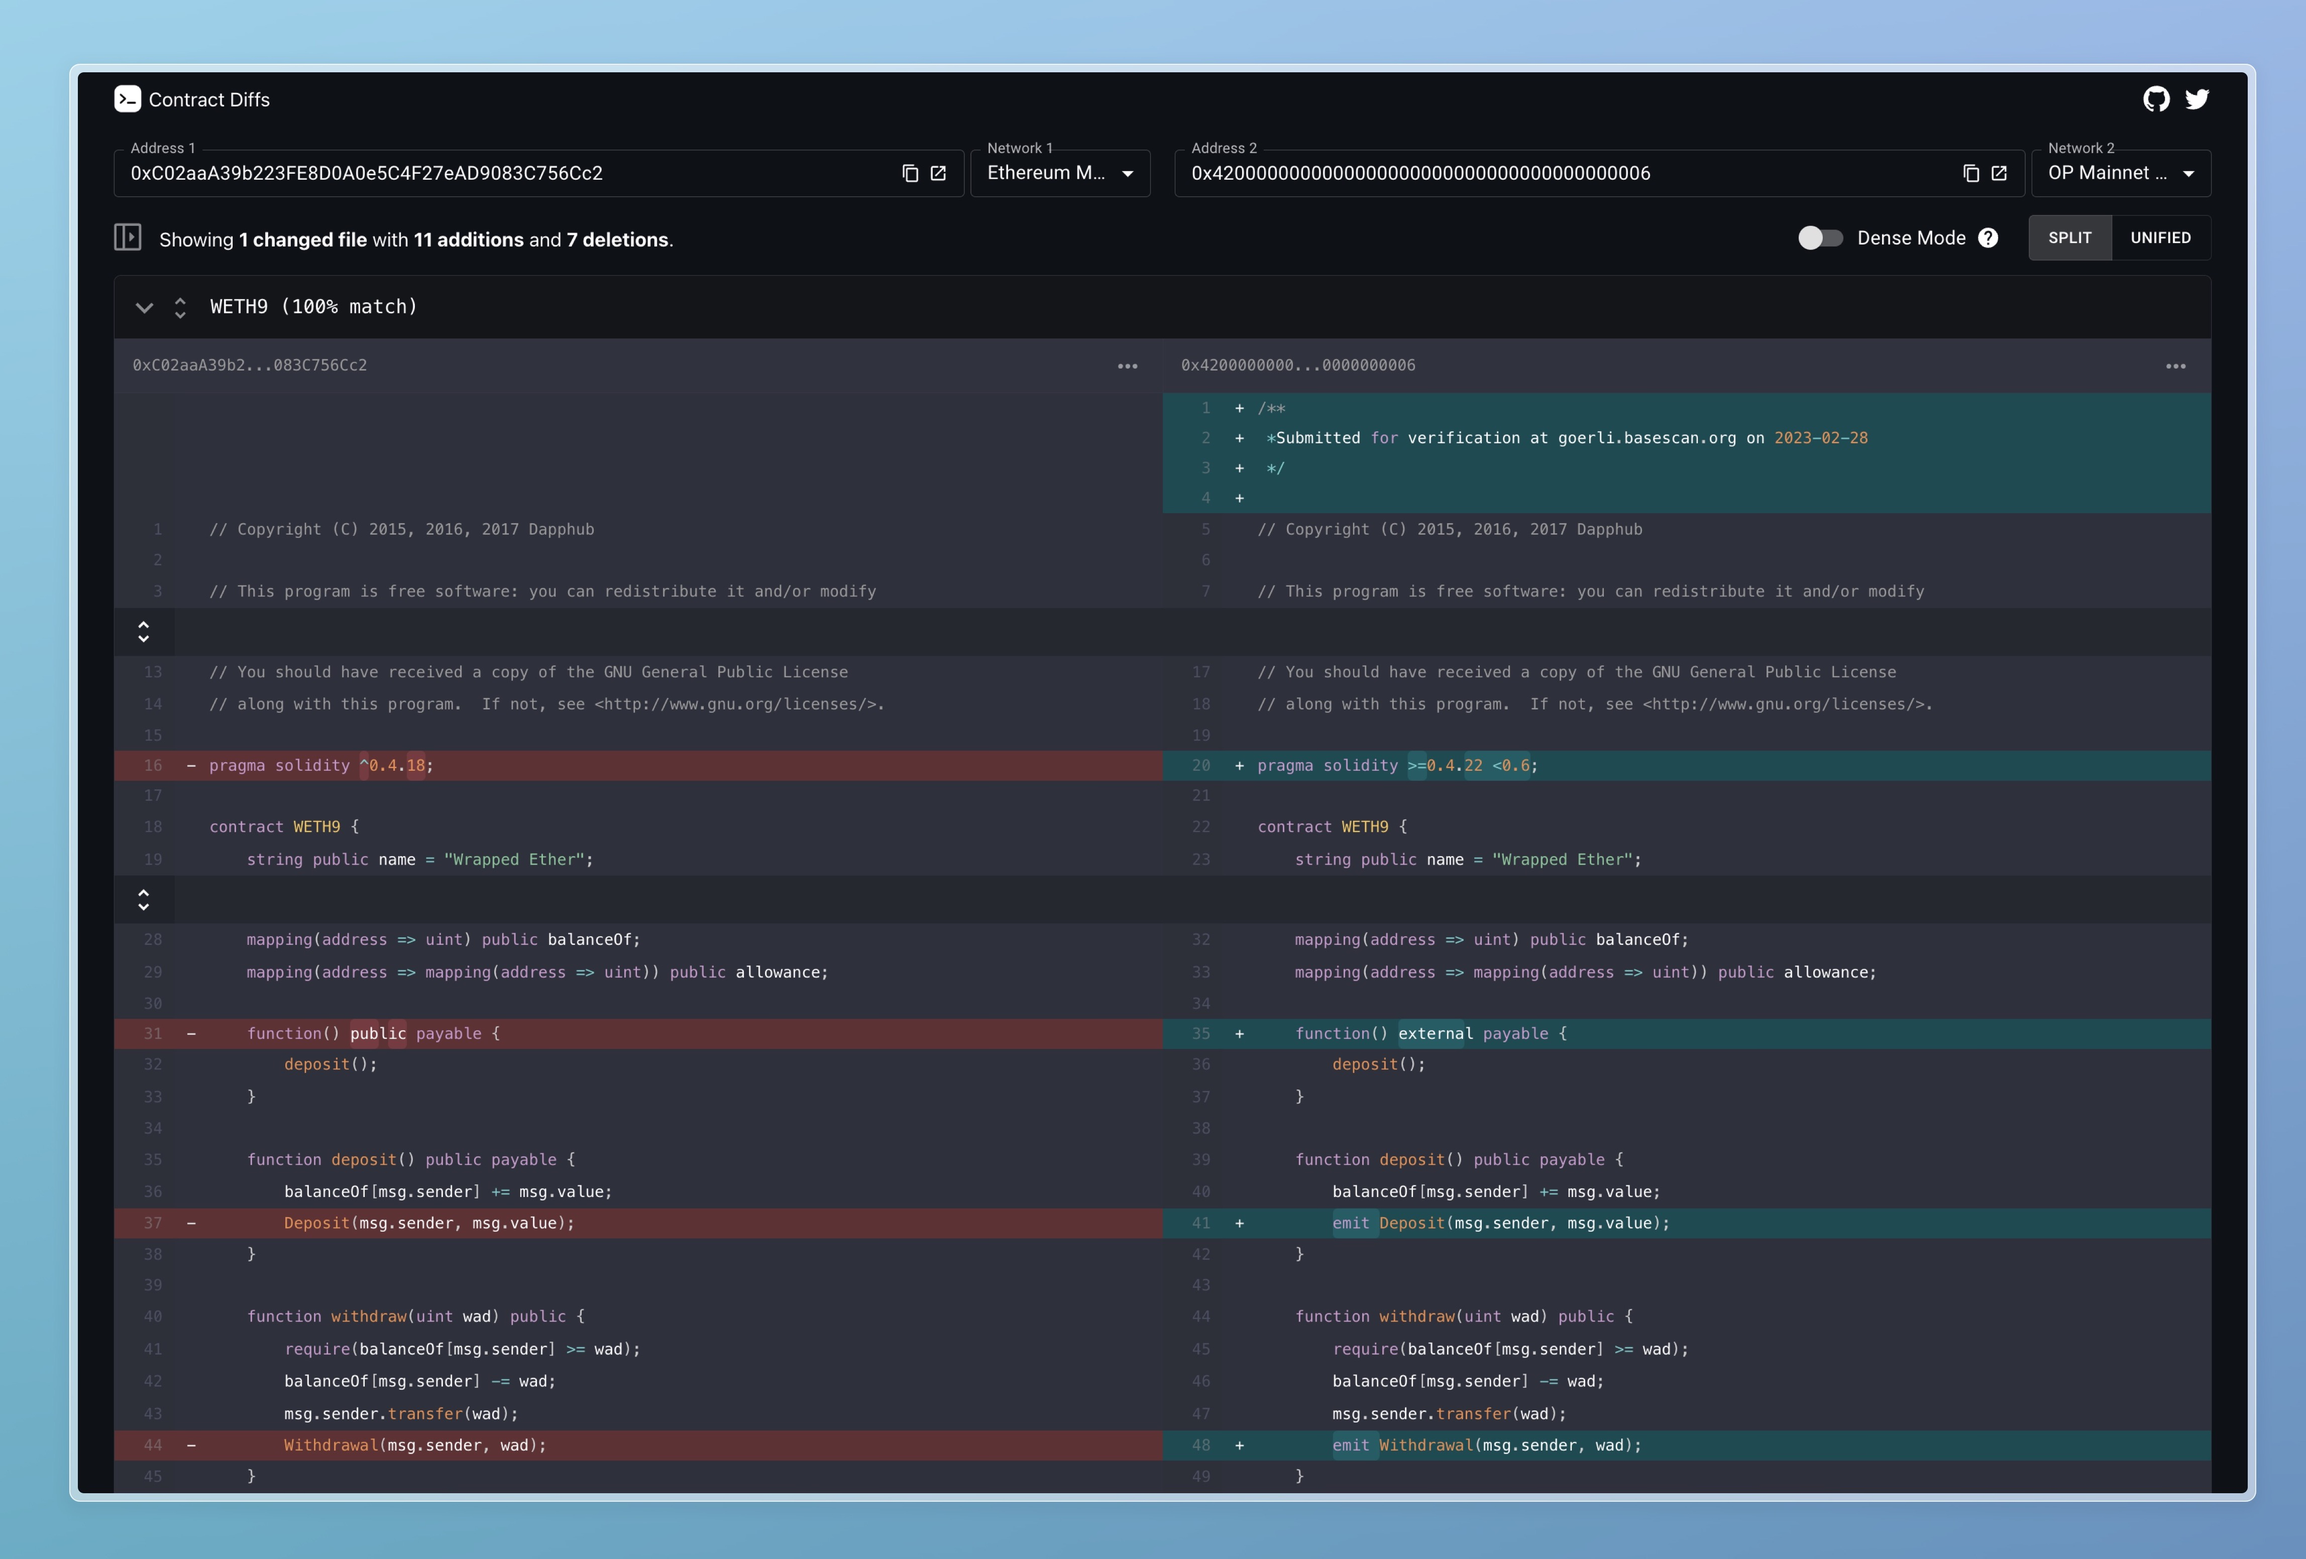
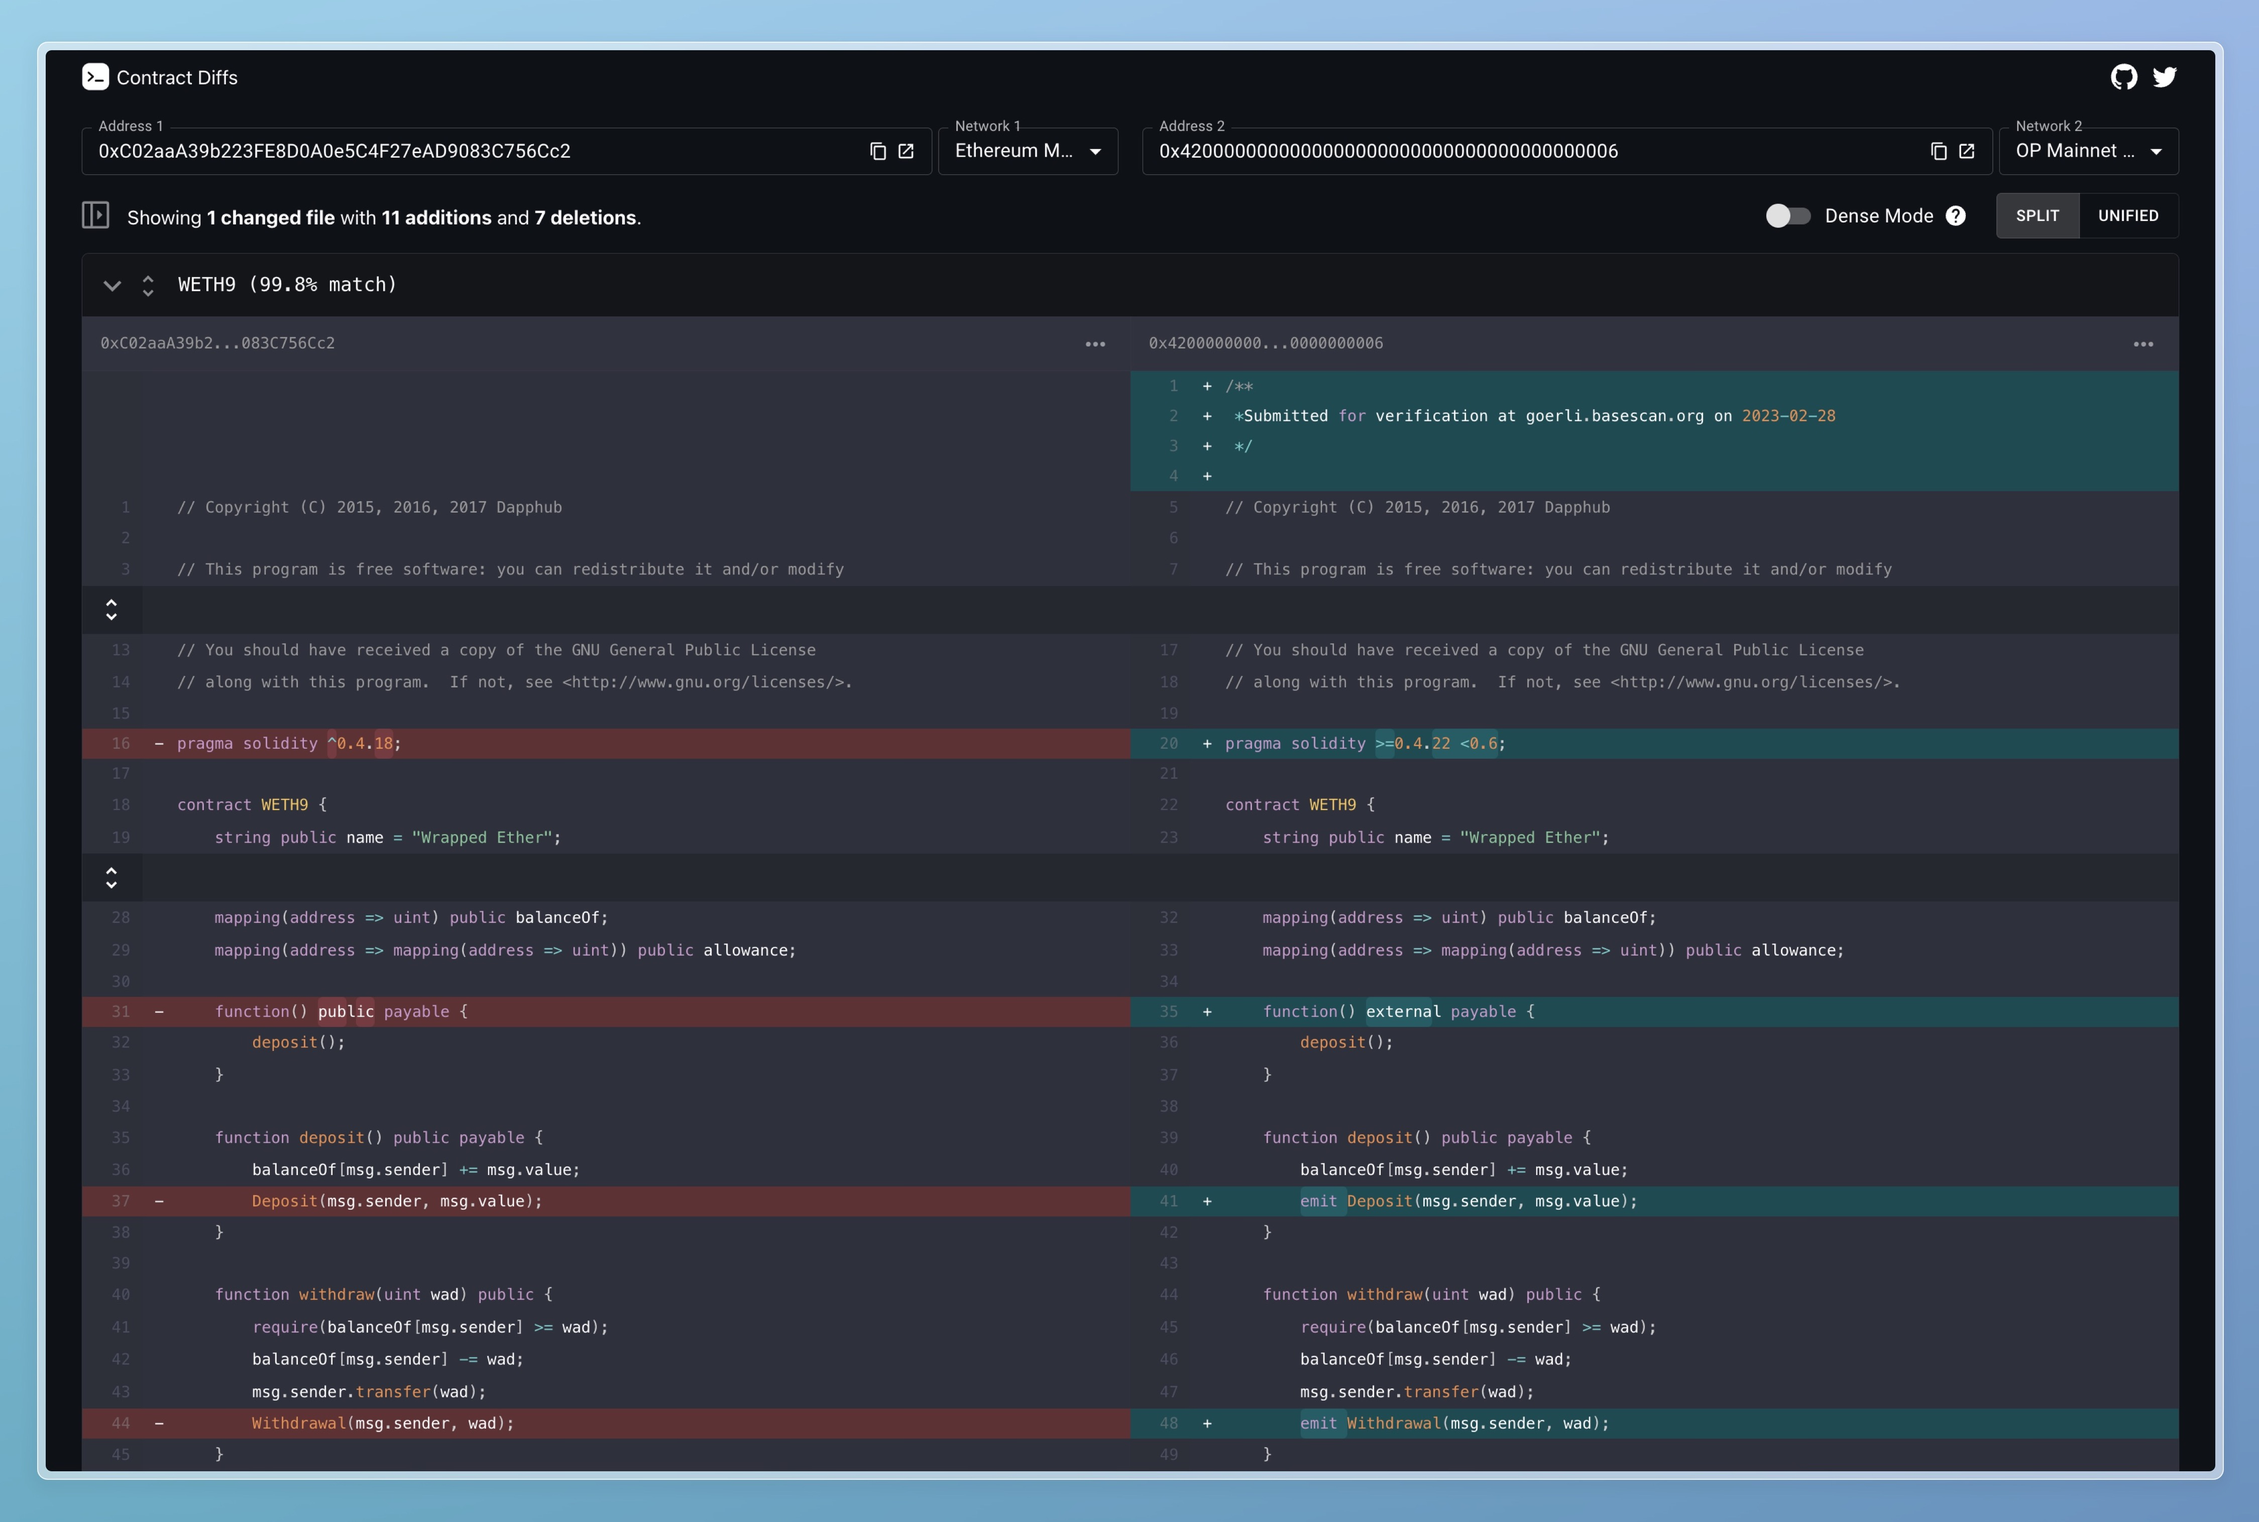
fix: similarity precision

diff --git a/src/components/FileDiff.js b/src/components/FileDiff.js
@@ -162,6 +162,10 @@ export default ({
   const explorer1 = useSelectExplorer1();
   const explorer2 = useSelectExplorer2();
 
+  console.log(fileName, similarity * 100);
+  // Never round similarity up to 100%
+  const similarityDigits = similarity * 100 >= 99.5 ? 1 : 0;
+
   const renderAddress = (address, field, source) => (
     <AddressWrap>
       <AddressTitleWrap title={address}>
@@ -287,7 +291,7 @@ export default ({
             </IconButton>
           </Tooltip>
           <TitleWrapper title={fileName}>
-            {fileName} ({(similarity * 100).toFixed(0)}% match)
+            {fileName} ({(similarity * 100).toFixed(similarityDigits)}% match)
           </TitleWrapper>
         </div>
       </SourceHeader>
